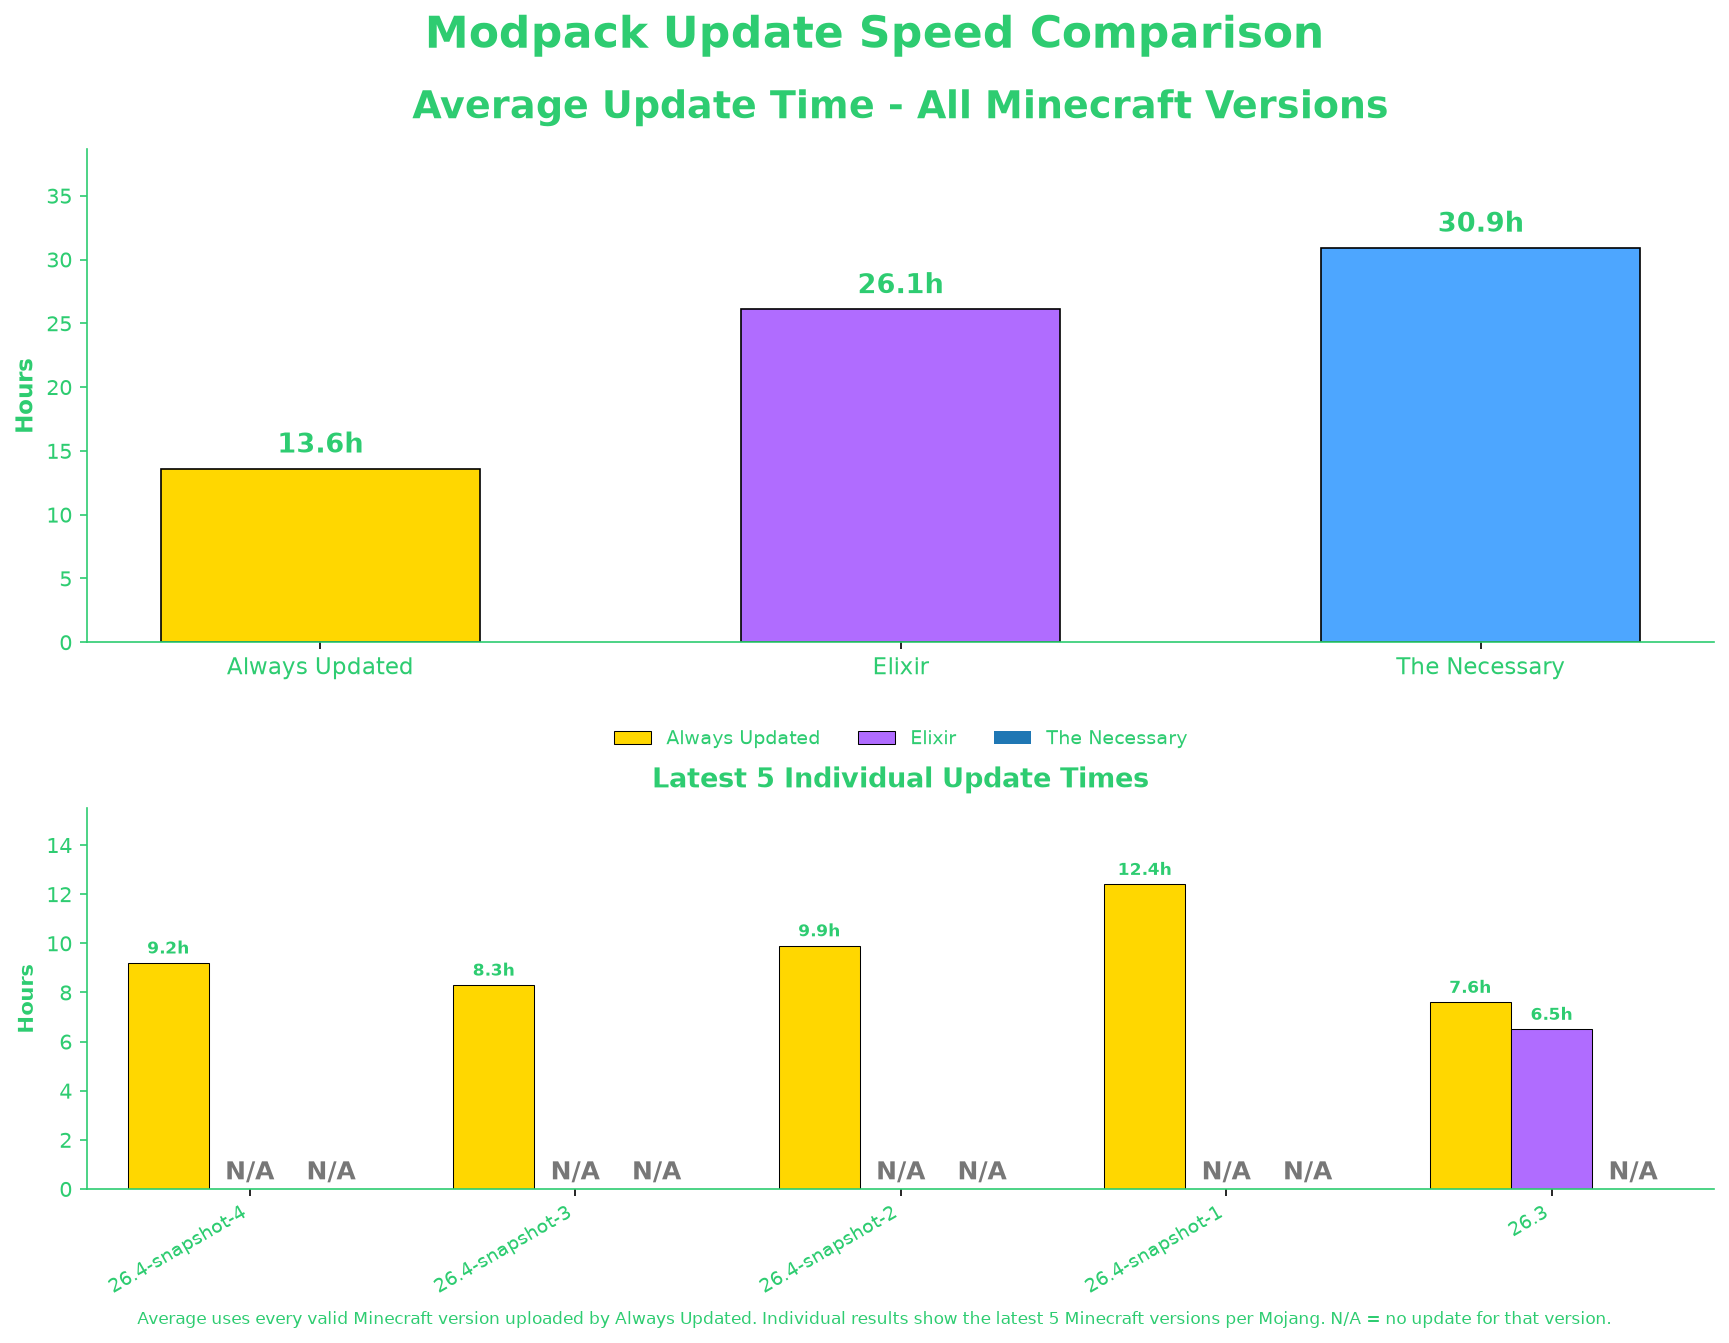
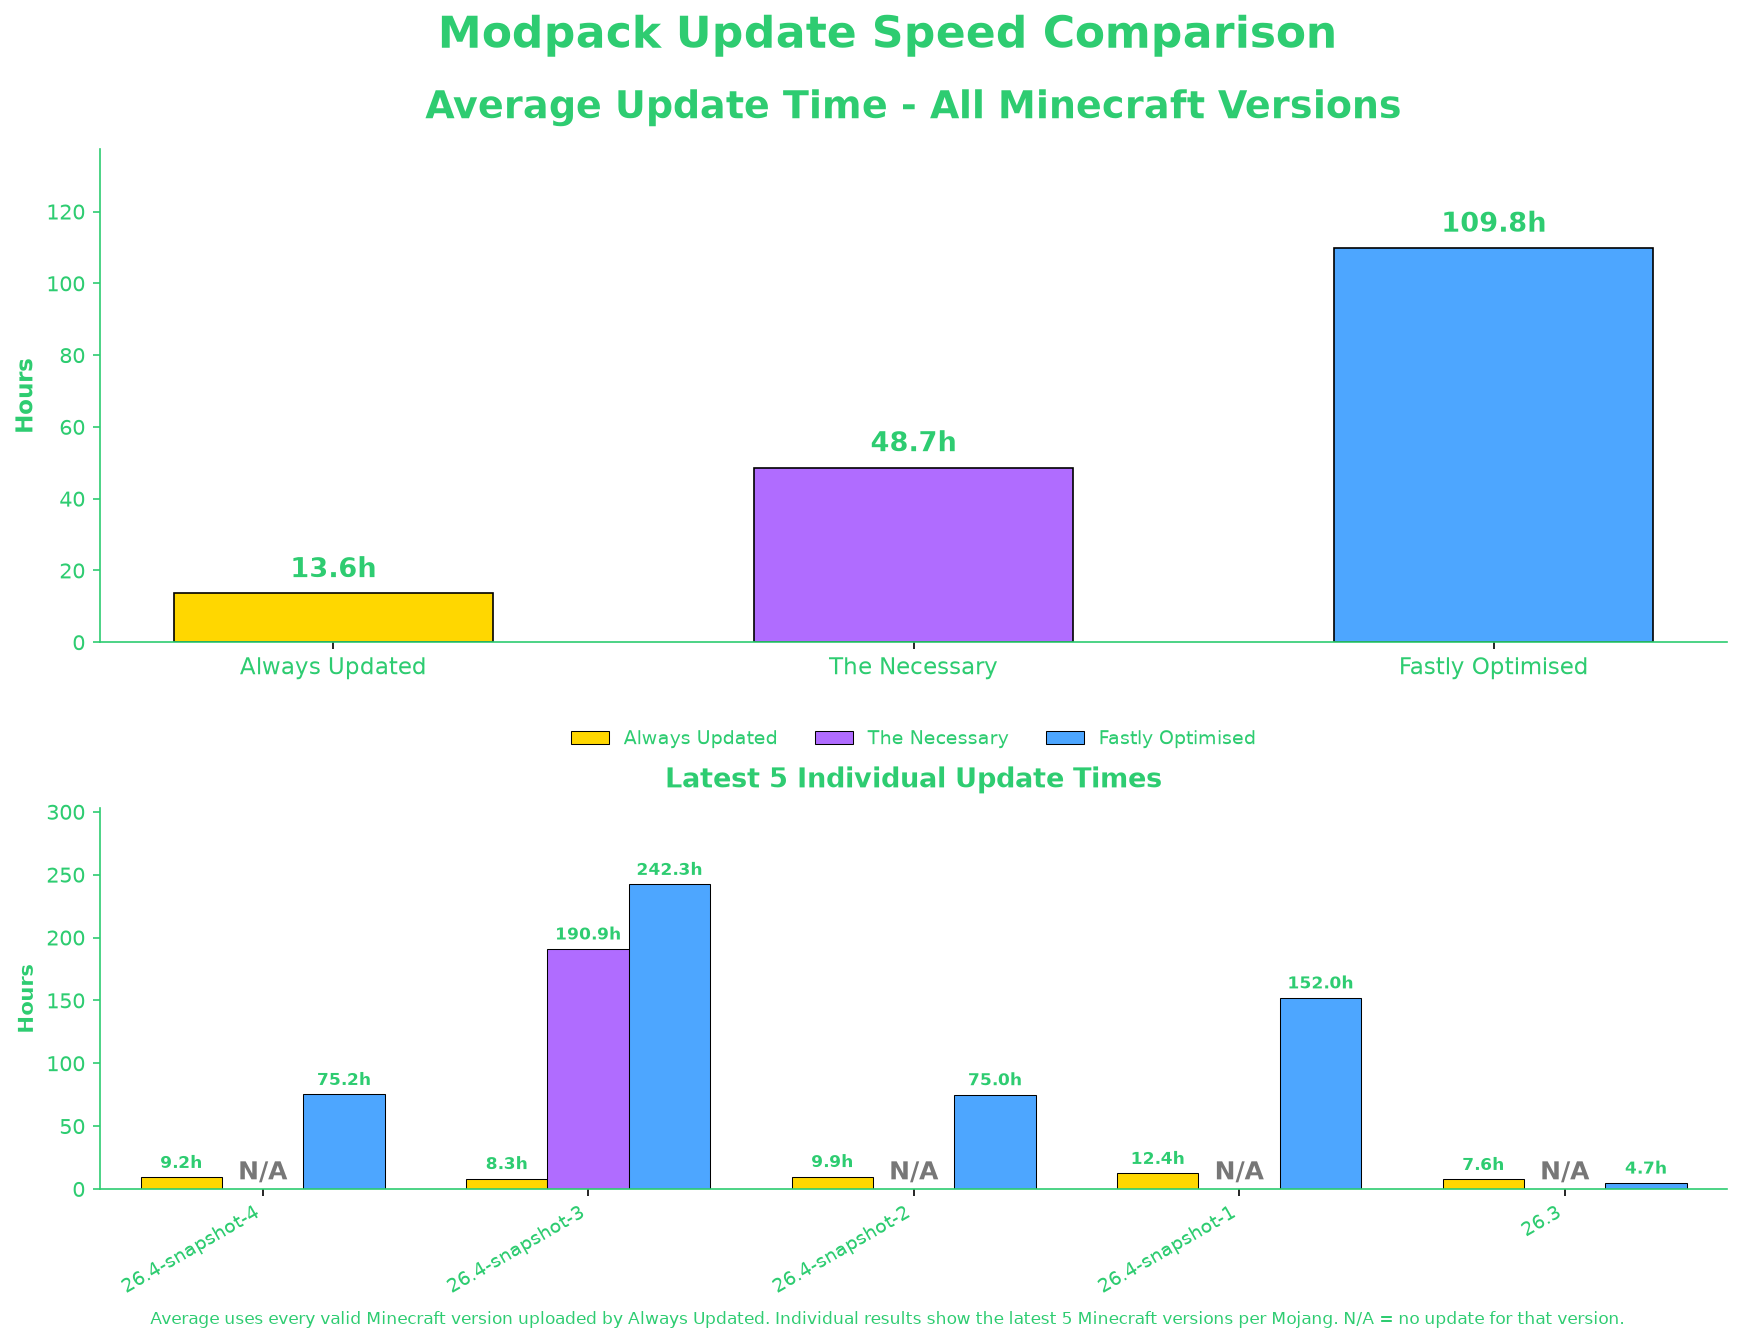
dsa

diff --git a/generate_graph.py b/generate_graph.py
@@ -15,7 +15,7 @@ load_dotenv()
 
 PROJECTS = {
     "Always Updated": "rj6ioflZ",
-    "Elixir": "Wmfgn1eN",
+    "The Necessary": "Gvp9bbxY",
     "Fastly Optimised": "uBPAMdwq",
 }
 
@@ -584,8 +584,8 @@ def main():
 
     COLORS = {
         "Always Updated": "#FFD700",
-        "Wmfgn1eN": "#B06CFF",
-        "Gvp9bbxY": "#4DA6FF",
+        "The Necessary": "#B06CFF",
+        "Fastly Optimised": "#4DA6FF",
     }
 
     # =====================================================
